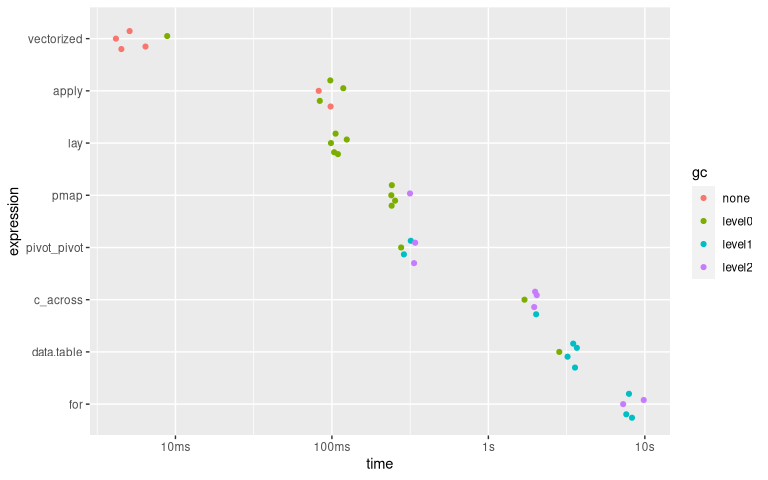
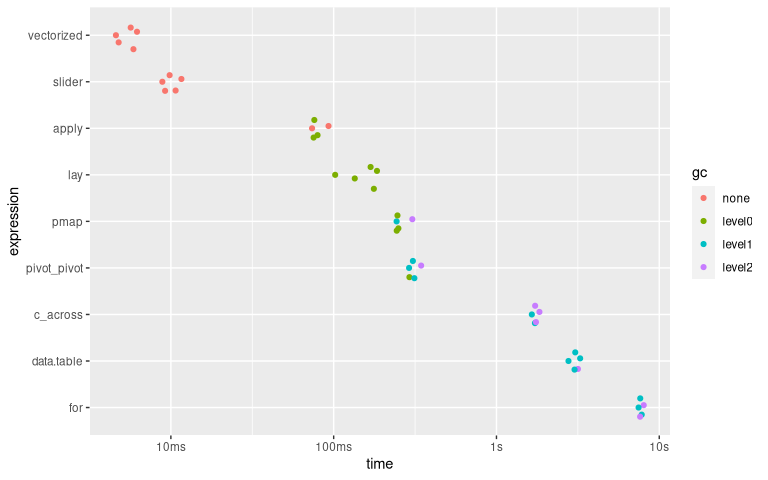
Add slider

diff --git a/README.md b/README.md
@@ -347,7 +347,38 @@ This is a perfectly fine solution and actually part of what one
 implementation of **lay()** relies on (if \`.method = “tidy”), but from
 a user perspective it is a little too geeky-scary.
 
-### Alternative 5: **{data.table}**
+### Alternative 5: **{slider}**
+
+``` r
+library(slider)   ## requires to have installed {slider}
+
+drugs %>%
+  mutate(everused = slide_lgl(across(-caseid), any))
+#> # A tibble: 100 x 9
+#>    caseid hydrocd oxycodp codeine tramadl morphin methdon vicolor everused
+#>    <chr>    <int>   <int>   <int>   <int>   <int>   <int>   <int> <lgl>   
+#>  1 1            0       0       0       0       0       0       0 FALSE   
+#>  2 2            0       0       0       0       0       0       0 FALSE   
+#>  3 3            0       0       0       0       0       0       0 FALSE   
+#>  4 4            0       0       0       0       0       0       0 FALSE   
+#>  5 5            0       0       0       0       0       0       0 FALSE   
+#>  6 6            0       0       0       0       0       0       0 FALSE   
+#>  7 7            0       0       0       0       0       0       0 FALSE   
+#>  8 8            0       0       0       0       0       0       0 FALSE   
+#>  9 9            0       0       0       0       0       0       1 TRUE    
+#> 10 10           0       0       0       0       0       0       0 FALSE   
+#> # … with 90 more rows
+```
+
+The package [**{slider}**](https://davisvaughan.github.io/slider/) is a
+powerful package which provides several *sliding window* functions. It
+can be used to perform rowwise operations and is very similar to
+**{lay}**. It is very efficient but two possible drawbacks are:
+
+-   you need to indicate the class of the output you want
+-   I am not sure it supports the automatic splicing demonstrated above?
+
+### Alternative 6: **{data.table}**
 
 ``` r
 library(data.table)  ## requires to have installed {data.table}
@@ -370,7 +401,7 @@ This is a solution for those using **{data.table}**. It is not
 particularly efficient, nor particularly easy to remember for those who
 do not program frequently using **{data.table}**.
 
-### Alternative 6: **apply()**
+### Alternative 7: **apply()**
 
 ``` r
 drugs %>%
@@ -396,7 +427,7 @@ default method used in **lay()**. Our implementation of **lay()** strips
 the need of defining the margin (the `1L` above) and benefits from the
 automatic splicing and the lambda syntax as shown above.
 
-### Alternative 7: **for()**
+### Alternative 8: **for()**
 
 ``` r
 drugs$everused <- NA
@@ -458,7 +489,7 @@ on which on can easily apply a function. Romain came up with **lay()**
 as the better solution making good use of **{rlang}** & **{vctrs}**.
 
 The verb **lay()** never made it to be integrated within **{dplyr}**
-and, so far, I still find **lay()** superior than other alternatives,
+and, so far, I still find **lay()** superior than most alternatives,
 which is why I decided to revive this package in November 2020.
 
 In short, I deserve little credit and instead you should feel free to
